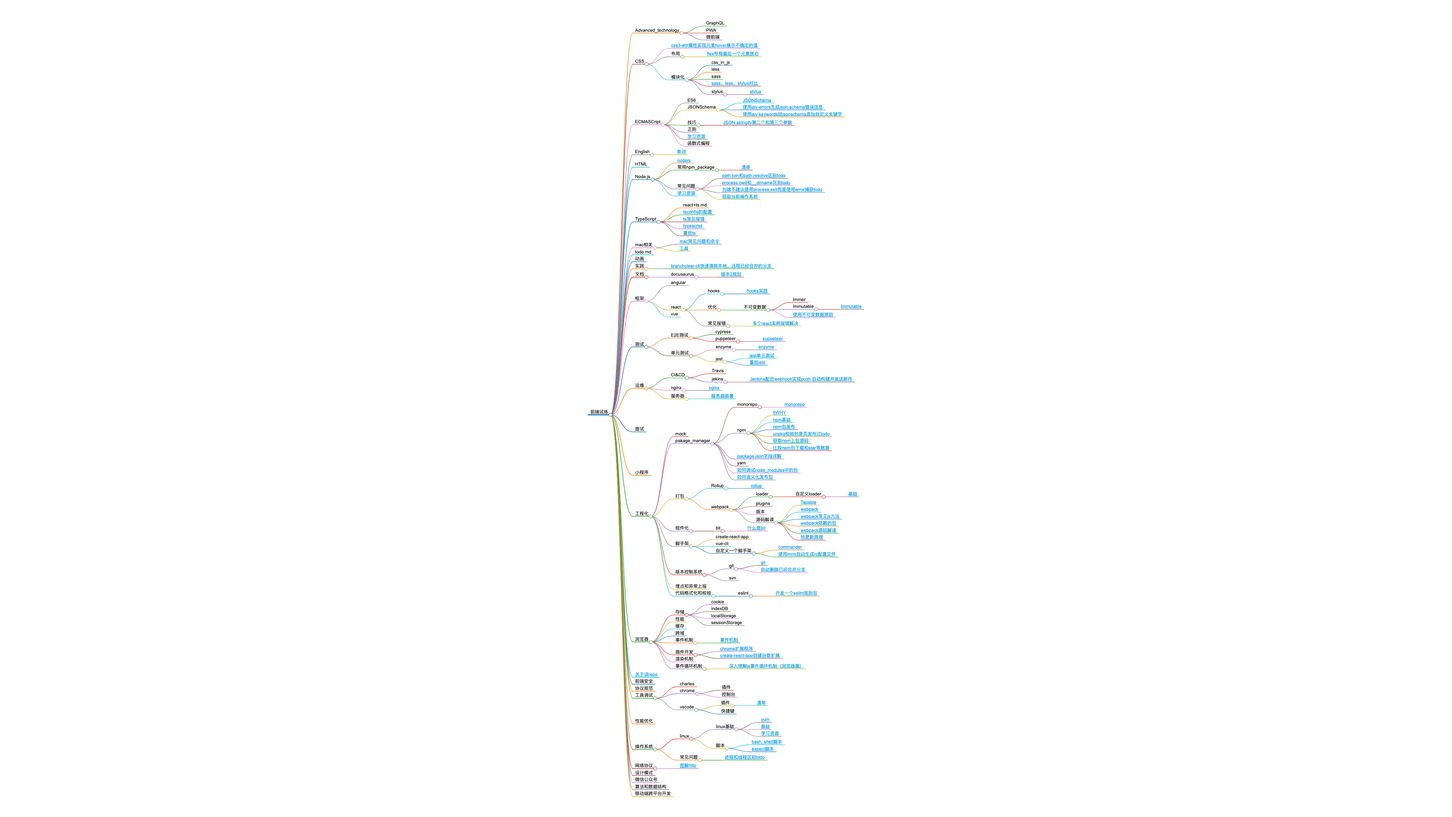
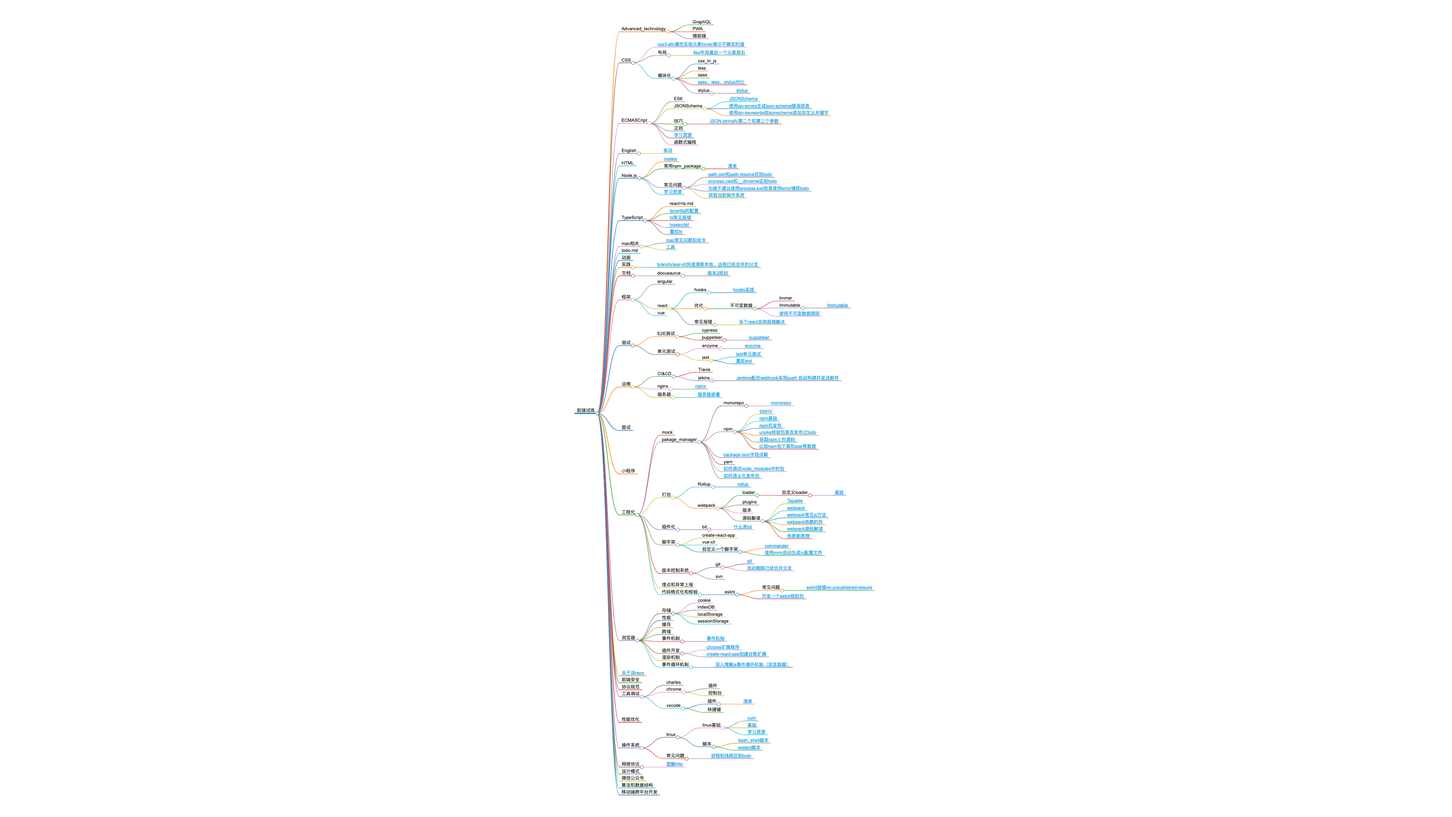
chore: updata思维导图

Changed region(s): [[0.4062, 0.031, 0.5938, 0.9926]]

diff --git a/website/static/xmind.html b/website/static/xmind.html
@@ -28,6 +28,6 @@
         (init ? init(loadPlugins, items, opts) : Promise.resolve()).then(() => {
           window.mm = Markmap.create('svg#mindmap', null, data);
         });
-      })({"t":"heading","d":1,"v":"前端试炼","c":[{"t":"list_item","d":2,"v":"Advanced_technology","c":[{"t":"list_item","d":3,"v":"GraphQL"},{"t":"list_item","d":3,"v":"PWA"},{"t":"list_item","d":3,"v":"微前端"}]},{"t":"list_item","d":2,"v":"CSS","c":[{"t":"list_item","d":3,"v":"<a href=\"docs/CSS/0729c4e1a19b9e3b6904b91e63cbd435\" title=\"\" target=\"_blank\" rel=\"noopener noreferrer\">css3-attr属性实现元素hover展示不确定的值</a>"},{"t":"list_item","d":3,"v":"布局","c":[{"t":"list_item","d":4,"v":"<a href=\"docs/CSS/布局/d894294d8c56ce41da5469f6ed173daf\" title=\"\" target=\"_blank\" rel=\"noopener noreferrer\">flex布局最后一个元素居右</a>"}]},{"t":"list_item","d":3,"v":"模块化","c":[{"t":"list_item","d":4,"v":"css_in_js"},{"t":"list_item","d":4,"v":"less"},{"t":"list_item","d":4,"v":"sass"},{"t":"list_item","d":4,"v":"<a href=\"docs/CSS/模块化/98c70242585e1c8ac87207d342ab81e0\" title=\"\" target=\"_blank\" rel=\"noopener noreferrer\">sass、less、stylus对比</a>"},{"t":"list_item","d":4,"v":"stylus","c":[{"t":"list_item","d":5,"v":"<a href=\"docs/CSS/模块化/stylus/1de4cb8a5702a6a347c89999bfa433d2\" title=\"\" target=\"_blank\" rel=\"noopener noreferrer\">stylus</a>"}]}]}]},{"t":"list_item","d":2,"v":"ECMASCript","c":[{"t":"list_item","d":3,"v":"ES6"},{"t":"list_item","d":3,"v":"JSONSchema","c":[{"t":"list_item","d":4,"v":"<a href=\"docs/ECMASCript/JSONSchema/718deb34c13a2d51e3c2ba69f472fce9\" title=\"\" target=\"_blank\" rel=\"noopener noreferrer\">JSONSchema</a>"},{"t":"list_item","d":4,"v":"<a href=\"docs/ECMASCript/JSONSchema/f7964c8f9054ea24043d6089ad339147\" title=\"\" target=\"_blank\" rel=\"noopener noreferrer\">使用ajv-errors生成json-schema错误信息</a>"},{"t":"list_item","d":4,"v":"<a href=\"docs/ECMASCript/JSONSchema/5237e232cb7cb852580db82169fdcaeb\" title=\"\" target=\"_blank\" rel=\"noopener noreferrer\">使用ajv-keywords给jsonschema添加自定义关键字</a>"}]},{"t":"list_item","d":3,"v":"技巧","c":[{"t":"list_item","d":4,"v":"<a href=\"docs/ECMASCript/技巧/5ba5a0a4b23bea437b86bee22027111d\" title=\"\" target=\"_blank\" rel=\"noopener noreferrer\">JSON.stringify第二个和第三个参数</a>"}]},{"t":"list_item","d":3,"v":"正则"},{"t":"list_item","d":3,"v":"<a href=\"docs/ECMASCript/b53484b1bcbe1911e09c68d510ac7d64\" title=\"\" target=\"_blank\" rel=\"noopener noreferrer\">学习资源</a>"},{"t":"list_item","d":3,"v":"函数式编程"}]},{"t":"list_item","d":2,"v":"English","c":[{"t":"list_item","d":3,"v":"<a href=\"docs/English/72a91cf59167d6c497b1e3057447af5a\" title=\"\" target=\"_blank\" rel=\"noopener noreferrer\">单词</a>"}]},{"t":"list_item","d":2,"v":"HTML"},{"t":"list_item","d":2,"v":"Node.js","c":[{"t":"list_item","d":3,"v":"<a href=\"docs/Node.js/2e274f275e0613b306c487b358d94ab7\" title=\"\" target=\"_blank\" rel=\"noopener noreferrer\">nodejs</a>"},{"t":"list_item","d":3,"v":"常用npm_package","c":[{"t":"list_item","d":4,"v":"<a href=\"docs/Node.js/常用npm_package/9688efbb3877b7be40b25452ccaef48f\" title=\"\" target=\"_blank\" rel=\"noopener noreferrer\">清单</a>"}]},{"t":"list_item","d":3,"v":"常见问题","c":[{"t":"list_item","d":4,"v":"<a href=\"docs/Node.js/常见问题/f3a88e293ba7550437f98043f9c3f757\" title=\"\" target=\"_blank\" rel=\"noopener noreferrer\">path.join和path.resolve区别todo</a>"},{"t":"list_item","d":4,"v":"<a href=\"docs/Node.js/常见问题/35e3cab374fc073c688aa0cf2cc1e83e\" title=\"\" target=\"_blank\" rel=\"noopener noreferrer\">process.cwd和__dirname区别todo</a>"},{"t":"list_item","d":4,"v":"<a href=\"docs/Node.js/常见问题/181a14245a9ee55171de2d116970a240\" title=\"\" target=\"_blank\" rel=\"noopener noreferrer\">为啥不建议使用process.exit而是使用error捕获todo</a>"},{"t":"list_item","d":4,"v":"<a href=\"docs/Node.js/常见问题/34f53dc634b7e09e8d32279fb508f4c5\" title=\"\" target=\"_blank\" rel=\"noopener noreferrer\">获取当前操作系统</a>"}]},{"t":"list_item","d":3,"v":"<a href=\"docs/ECMASCript/b53484b1bcbe1911e09c68d510ac7d64\" title=\"\" target=\"_blank\" rel=\"noopener noreferrer\">学习资源</a>"}]},{"t":"list_item","d":2,"v":"TypeScript","c":[{"t":"list_item","d":3,"v":"react+ts.md"},{"t":"list_item","d":3,"v":"<a href=\"docs/TypeScript/4a8620d3409c9ccc2760c0abdf77eb66\" title=\"\" target=\"_blank\" rel=\"noopener noreferrer\">tsconfig的配置</a>"},{"t":"list_item","d":3,"v":"<a href=\"docs/TypeScript/32bf4b312a9b194926bd9464ec44dbf1\" title=\"\" target=\"_blank\" rel=\"noopener noreferrer\">ts常见报错</a>"},{"t":"list_item","d":3,"v":"<a href=\"docs/TypeScript/808567b84cc51ad515d4820e54f84e31\" title=\"\" target=\"_blank\" rel=\"noopener noreferrer\">typescript</a>"},{"t":"list_item","d":3,"v":"<a href=\"docs/TypeScript/b36f6376acc1abd98aab96ef91491d2b\" title=\"\" target=\"_blank\" rel=\"noopener noreferrer\">重拾ts</a>"}]},{"t":"list_item","d":2,"v":"mac相关","c":[{"t":"list_item","d":3,"v":"<a href=\"docs/mac相关/a44fd8dd59298708f41334a88822b962\" title=\"\" target=\"_blank\" rel=\"noopener noreferrer\">mac常见问题和命令</a>"},{"t":"list_item","d":3,"v":"<a href=\"docs/mac相关/2b9f15fd56b0c6b3cd5a33c28fc68157\" title=\"\" target=\"_blank\" rel=\"noopener noreferrer\">工具</a>"}]},{"t":"list_item","d":2,"v":"todo.md"},{"t":"list_item","d":2,"v":"动画"},{"t":"list_item","d":2,"v":"实践","c":[{"t":"list_item","d":3,"v":"<a href=\"docs/实践/626060a4af5e1540907d7bcd2416544c\" title=\"\" target=\"_blank\" rel=\"noopener noreferrer\">branchclear-cli快速清除本地、远程已经合并的分支</a>"}]},{"t":"list_item","d":2,"v":"文档","c":[{"t":"list_item","d":3,"v":"docusaurus","c":[{"t":"list_item","d":4,"v":"<a href=\"docs/文档/docusaurus/a7934b68b6234157a1af4087537d1e8b\" title=\"\" target=\"_blank\" rel=\"noopener noreferrer\">版本2规划</a>"}]}]},{"t":"list_item","d":2,"v":"框架","c":[{"t":"list_item","d":3,"v":"angular"},{"t":"list_item","d":3,"v":"react","c":[{"t":"list_item","d":4,"v":"hooks","c":[{"t":"list_item","d":5,"v":"<a href=\"docs/框架/react/hooks/cc79a47e7d739125f1566a487e26fb99\" title=\"\" target=\"_blank\" rel=\"noopener noreferrer\">hooks实践</a>"}]},{"t":"list_item","d":4,"v":"优化","c":[{"t":"list_item","d":5,"v":"不可变数据","c":[{"t":"list_item","d":6,"v":"Immer"},{"t":"list_item","d":6,"v":"Immutable","c":[{"t":"list_item","d":7,"v":"<a href=\"docs/框架/react/优化/不可变数据/Immutable/1d3d9edc29eec0f35eaf85c9e8d5b659\" title=\"\" target=\"_blank\" rel=\"noopener noreferrer\">Immutable</a>"}]},{"t":"list_item","d":6,"v":"<a href=\"docs/框架/react/优化/不可变数据/7f536cb00c3fdc6439f768fb47f7a59e\" title=\"\" target=\"_blank\" rel=\"noopener noreferrer\">使用不可变数据原因</a>"}]}]},{"t":"list_item","d":4,"v":"常见报错","c":[{"t":"list_item","d":5,"v":"<a href=\"docs/框架/react/常见报错/7d0e60c89a5f550eadf89f5f22550bcc\" title=\"\" target=\"_blank\" rel=\"noopener noreferrer\">多个react实例报错解决</a>"}]}]},{"t":"list_item","d":3,"v":"vue"}]},{"t":"list_item","d":2,"v":"测试","c":[{"t":"list_item","d":3,"v":"E2E测试","c":[{"t":"list_item","d":4,"v":"cypress"},{"t":"list_item","d":4,"v":"puppeteer","c":[{"t":"list_item","d":5,"v":"<a href=\"docs/测试/E2E测试/puppeteer/179673e977b3c3f9ad055a4b4a1e4eff\" title=\"\" target=\"_blank\" rel=\"noopener noreferrer\">puppeteer</a>"}]}]},{"t":"list_item","d":3,"v":"单元测试","c":[{"t":"list_item","d":4,"v":"enzyme","c":[{"t":"list_item","d":5,"v":"<a href=\"docs/测试/单元测试/enzyme/ff68fd239a281351a53d6e0b62b17fe7\" title=\"\" target=\"_blank\" rel=\"noopener noreferrer\">enzyme</a>"}]},{"t":"list_item","d":4,"v":"jest","c":[{"t":"list_item","d":5,"v":"<a href=\"docs/测试/单元测试/jest/094b039468990ad513f1f8dd484d8dc2\" title=\"\" target=\"_blank\" rel=\"noopener noreferrer\">jest单元测试</a>"},{"t":"list_item","d":5,"v":"<a href=\"docs/测试/单元测试/jest/b1f6cee7ef1784df1f5f69a9c4a785da\" title=\"\" target=\"_blank\" rel=\"noopener noreferrer\">重拾jest</a>"}]}]}]},{"t":"list_item","d":2,"v":"运维","c":[{"t":"list_item","d":3,"v":"CI&amp;CD","c":[{"t":"list_item","d":4,"v":"Travis"},{"t":"list_item","d":4,"v":"jekins","c":[{"t":"list_item","d":5,"v":"<a href=\"docs/运维/CI&amp;CD/jekins/d945d19c0ddc3f3d3fd73e4e1dabfcf1\" title=\"\" target=\"_blank\" rel=\"noopener noreferrer\">Jenkins配合webhook实现push,自动构建并发送邮件</a>"}]}]},{"t":"list_item","d":3,"v":"nginx","c":[{"t":"list_item","d":4,"v":"<a href=\"docs/运维/nginx/df1da39a6e72280164ae3ce63cb1fc4a\" title=\"\" target=\"_blank\" rel=\"noopener noreferrer\">nginx</a>"}]},{"t":"list_item","d":3,"v":"服务器","c":[{"t":"list_item","d":4,"v":"<a href=\"docs/运维/服务器/08c9e14f9b32a6e0c3ce858267d3e639\" title=\"\" target=\"_blank\" rel=\"noopener noreferrer\">服务器部署</a>"}]}]},{"t":"list_item","d":2,"v":"面试"},{"t":"list_item","d":2,"v":"小程序"},{"t":"list_item","d":2,"v":"工程化","c":[{"t":"list_item","d":3,"v":"mock"},{"t":"list_item","d":3,"v":"pakage_manager","c":[{"t":"list_item","d":4,"v":"monorepo","c":[{"t":"list_item","d":5,"v":"<a href=\"docs/工程化/pakage_manager/monorepo/0839e5ac070eca1b53807ffcbfbf5cc6\" title=\"\" target=\"_blank\" rel=\"noopener noreferrer\">monorepo</a>"}]},{"t":"list_item","d":4,"v":"npm","c":[{"t":"list_item","d":5,"v":"<a href=\"docs/工程化/pakage_manager/npm/c7133389f53e8d534c388d5ce8b37459\" title=\"\" target=\"_blank\" rel=\"noopener noreferrer\">5WHY</a>"},{"t":"list_item","d":5,"v":"<a href=\"docs/工程化/pakage_manager/npm/4bc8b6d9c0d959fc89304c7b6ca759d2\" title=\"\" target=\"_blank\" rel=\"noopener noreferrer\">npm基础</a>"},{"t":"list_item","d":5,"v":"<a href=\"docs/工程化/pakage_manager/npm/ba56c3b18aefa148f9439f026ec3f973\" title=\"\" target=\"_blank\" rel=\"noopener noreferrer\">npm包发布</a>"},{"t":"list_item","d":5,"v":"<a href=\"docs/工程化/pakage_manager/npm/d65b7b7b836dd8738e6504b00c5d8ec9\" title=\"\" target=\"_blank\" rel=\"noopener noreferrer\">unpkg校验包是否发布过todo</a>"},{"t":"list_item","d":5,"v":"<a href=\"docs/工程化/pakage_manager/npm/09b0d7c93d19d925aaec8215b046a974\" title=\"\" target=\"_blank\" rel=\"noopener noreferrer\">获取npm上包源码</a>"},{"t":"list_item","d":5,"v":"<a href=\"docs/工程化/pakage_manager/npm/c6ce67aed5b47d0a31123ae15d9e581a\" title=\"\" target=\"_blank\" rel=\"noopener noreferrer\">比较npm包下载和star等数据</a>"}]},{"t":"list_item","d":4,"v":"<a href=\"docs/工程化/pakage_manager/38f14e8081af1e36ddd422fa9b4db94a\" title=\"\" target=\"_blank\" rel=\"noopener noreferrer\">package.json字段详解</a>"},{"t":"list_item","d":4,"v":"yarn"},{"t":"list_item","d":4,"v":"<a href=\"docs/工程化/pakage_manager/e6a07bea153f8b002ef8dc47f8bc1311\" title=\"\" target=\"_blank\" rel=\"noopener noreferrer\">如何调试node_modules中的包</a>"},{"t":"list_item","d":4,"v":"<a href=\"docs/工程化/pakage_manager/ec0f88d99c3ac3c6b5038c575ac4d1ce\" title=\"\" target=\"_blank\" rel=\"noopener noreferrer\">如何语义化发布包</a>"}]},{"t":"list_item","d":3,"v":"打包","c":[{"t":"list_item","d":4,"v":"Rollup","c":[{"t":"list_item","d":5,"v":"<a href=\"docs/工程化/打包/Rollup/4918d3072fb3da6be9ad6cfe54c020f3\" title=\"\" target=\"_blank\" rel=\"noopener noreferrer\">rollup</a>"}]},{"t":"list_item","d":4,"v":"webpack","c":[{"t":"list_item","d":5,"v":"loader","c":[{"t":"list_item","d":6,"v":"自定义loader","c":[{"t":"list_item","d":7,"v":"<a href=\"docs/工程化/打包/webpack/loader/自定义loader/9b68a2b86fd6b41392413eebbe754257\" title=\"\" target=\"_blank\" rel=\"noopener noreferrer\">基础</a>"}]}]},{"t":"list_item","d":5,"v":"plugins"},{"t":"list_item","d":5,"v":"版本"},{"t":"list_item","d":5,"v":"源码解读","c":[{"t":"list_item","d":6,"v":"<a href=\"docs/工程化/打包/webpack/源码解读/3044cf73a36f83e5344247f79ffb719e\" title=\"\" target=\"_blank\" rel=\"noopener noreferrer\">Tapable</a>"},{"t":"list_item","d":6,"v":"<a href=\"docs/工程化/打包/webpack/源码解读/8b9409a6ad189493556150ffca9a2079\" title=\"\" target=\"_blank\" rel=\"noopener noreferrer\">webpack</a>"},{"t":"list_item","d":6,"v":"<a href=\"docs/工程化/打包/webpack/源码解读/7cb10912f28c1696659c6131b517f27c\" title=\"\" target=\"_blank\" rel=\"noopener noreferrer\">webpack常见js方法</a>"},{"t":"list_item","d":6,"v":"<a href=\"docs/工程化/打包/webpack/源码解读/0889ebe5191ee49173a6c02e5d4ccd6f\" title=\"\" target=\"_blank\" rel=\"noopener noreferrer\">webpack依赖的包</a>"},{"t":"list_item","d":6,"v":"<a href=\"docs/工程化/打包/webpack/源码解读/80e8979bbebe30571bf98fea6d3b32d0\" title=\"\" target=\"_blank\" rel=\"noopener noreferrer\">webpack源码解读</a>"},{"t":"list_item","d":6,"v":"<a href=\"docs/工程化/打包/webpack/源码解读/768e191e2dc797ba437ddbf619dcf3b5\" title=\"\" target=\"_blank\" rel=\"noopener noreferrer\">热更新原理</a>"}]}]}]},{"t":"list_item","d":3,"v":"组件化","c":[{"t":"list_item","d":4,"v":"bit","c":[{"t":"list_item","d":5,"v":"<a href=\"docs/工程化/组件化/bit/a0d47b851468953d2c75ec36293fc240\" title=\"\" target=\"_blank\" rel=\"noopener noreferrer\">什么是bit</a>"}]}]},{"t":"list_item","d":3,"v":"脚手架","c":[{"t":"list_item","d":4,"v":"create-react-app"},{"t":"list_item","d":4,"v":"vue-cli"},{"t":"list_item","d":4,"v":"自定义一个脚手架","c":[{"t":"list_item","d":5,"v":"<a href=\"docs/工程化/脚手架/自定义一个脚手架/e1f3c1423014acd77d6282114faf6935\" title=\"\" target=\"_blank\" rel=\"noopener noreferrer\">commander</a>"},{"t":"list_item","d":5,"v":"<a href=\"docs/工程化/脚手架/自定义一个脚手架/08da76489044cd5dfcc111cb0b8b8d58\" title=\"\" target=\"_blank\" rel=\"noopener noreferrer\">使用mrm自动生成rc配置文件</a>"}]}]},{"t":"list_item","d":3,"v":"版本控制系统","c":[{"t":"list_item","d":4,"v":"git","c":[{"t":"list_item","d":5,"v":"<a href=\"docs/工程化/版本控制系统/git/85735fc293ff4dbf3ef3e42201cb061d\" title=\"\" target=\"_blank\" rel=\"noopener noreferrer\">git</a>"},{"t":"list_item","d":5,"v":"<a href=\"docs/工程化/版本控制系统/git/7ee6448a4e193516af12ff819b930f2f\" title=\"\" target=\"_blank\" rel=\"noopener noreferrer\">自动删除已经合并分支</a>"}]},{"t":"list_item","d":4,"v":"svn"}]},{"t":"list_item","d":3,"v":"埋点和异常上报"},{"t":"list_item","d":3,"v":"代码格式化和校验","c":[{"t":"list_item","d":4,"v":"eslint","c":[{"t":"list_item","d":5,"v":"<a href=\"docs/工程化/代码格式化和校验/eslint/d8f7b00347a3af68dcfcf44d01eaecad\" title=\"\" target=\"_blank\" rel=\"noopener noreferrer\">开发一个eslint规则包</a>"}]}]}]},{"t":"list_item","d":2,"v":"浏览器","c":[{"t":"list_item","d":3,"v":"存储","c":[{"t":"list_item","d":4,"v":"cookie"},{"t":"list_item","d":4,"v":"indexDB"},{"t":"list_item","d":4,"v":"localStorage"},{"t":"list_item","d":4,"v":"sessionStorage"}]},{"t":"list_item","d":3,"v":"性能"},{"t":"list_item","d":3,"v":"缓存"},{"t":"list_item","d":3,"v":"跨域"},{"t":"list_item","d":3,"v":"事件机制","c":[{"t":"list_item","d":4,"v":"<a href=\"docs/浏览器/事件机制/7af5dc889f753bd70e5f7ef171c7060f\" title=\"\" target=\"_blank\" rel=\"noopener noreferrer\">事件机制</a>"}]},{"t":"list_item","d":3,"v":"插件开发","c":[{"t":"list_item","d":4,"v":"<a href=\"docs/浏览器/插件开发/2c4c0445df023db773d193c34210f844\" title=\"\" target=\"_blank\" rel=\"noopener noreferrer\">chrome扩展程序</a>"},{"t":"list_item","d":4,"v":"<a href=\"docs/浏览器/插件开发/bfe71b448da24918198c18263f04233a\" title=\"\" target=\"_blank\" rel=\"noopener noreferrer\">create-react-app创建谷歌扩展</a>"}]},{"t":"list_item","d":3,"v":"渲染机制"},{"t":"list_item","d":3,"v":"事件循环机制","c":[{"t":"list_item","d":4,"v":"<a href=\"docs/浏览器/事件循环机制/dc678db259507b0c4aeb94631e2dc8a7\" title=\"\" target=\"_blank\" rel=\"noopener noreferrer\">深入理解js事件循环机制（浏览器篇）</a>"}]}]},{"t":"list_item","d":2,"v":"<a href=\"docs/95a148348b289ba387509c05eb1c6af2\" title=\"\" target=\"_blank\" rel=\"noopener noreferrer\">关于该repo</a>"},{"t":"list_item","d":2,"v":"前端安全"},{"t":"list_item","d":2,"v":"协议规范"},{"t":"list_item","d":2,"v":"工具调试","c":[{"t":"list_item","d":3,"v":"charles"},{"t":"list_item","d":3,"v":"chrome","c":[{"t":"list_item","d":4,"v":"插件"},{"t":"list_item","d":4,"v":"控制台"}]},{"t":"list_item","d":3,"v":"vscode","c":[{"t":"list_item","d":4,"v":"插件","c":[{"t":"list_item","d":5,"v":"<a href=\"docs/Node.js/常用npm_package/9688efbb3877b7be40b25452ccaef48f\" title=\"\" target=\"_blank\" rel=\"noopener noreferrer\">清单</a>"}]},{"t":"list_item","d":4,"v":"快捷键"}]}]},{"t":"list_item","d":2,"v":"性能优化"},{"t":"list_item","d":2,"v":"操作系统","c":[{"t":"list_item","d":3,"v":"linux","c":[{"t":"list_item","d":4,"v":"linux基础","c":[{"t":"list_item","d":5,"v":"<a href=\"docs/操作系统/linux/linux基础/760bccd78d82b9e52641e9273b7baad5\" title=\"\" target=\"_blank\" rel=\"noopener noreferrer\">yum</a>"},{"t":"list_item","d":5,"v":"<a href=\"docs/工程化/打包/webpack/loader/自定义loader/9b68a2b86fd6b41392413eebbe754257\" title=\"\" target=\"_blank\" rel=\"noopener noreferrer\">基础</a>"},{"t":"list_item","d":5,"v":"<a href=\"docs/ECMASCript/b53484b1bcbe1911e09c68d510ac7d64\" title=\"\" target=\"_blank\" rel=\"noopener noreferrer\">学习资源</a>"}]},{"t":"list_item","d":4,"v":"脚本","c":[{"t":"list_item","d":5,"v":"<a href=\"docs/操作系统/linux/脚本/5d8743a01675138db72310478b6c7f30\" title=\"\" target=\"_blank\" rel=\"noopener noreferrer\">bash_shell脚本</a>"},{"t":"list_item","d":5,"v":"<a href=\"docs/操作系统/linux/脚本/c89e3ed149c086944696ba0fe3a5ffde\" title=\"\" target=\"_blank\" rel=\"noopener noreferrer\">expect脚本</a>"}]}]},{"t":"list_item","d":3,"v":"常见问题","c":[{"t":"list_item","d":4,"v":"<a href=\"docs/操作系统/常见问题/5d2f732d1880309d622ee322b766ddcb\" title=\"\" target=\"_blank\" rel=\"noopener noreferrer\">进程和线程区别todo</a>"}]}]},{"t":"list_item","d":2,"v":"网络协议","c":[{"t":"list_item","d":3,"v":"<a href=\"docs/网络协议/a7785cd0374e6044ab0a1c64fbbc81fa\" title=\"\" target=\"_blank\" rel=\"noopener noreferrer\">图解http</a>"}]},{"t":"list_item","d":2,"v":"设计模式"},{"t":"list_item","d":2,"v":"微信公众号"},{"t":"list_item","d":2,"v":"算法和数据结构"},{"t":"list_item","d":2,"v":"移动端跨平台开发"}]},(loadPlugins, items, opts) => loadPlugins(items, opts),["prism"],{"prism":true})</script>
+      })({"t":"heading","d":1,"v":"前端试炼","c":[{"t":"list_item","d":2,"v":"Advanced_technology","c":[{"t":"list_item","d":3,"v":"GraphQL"},{"t":"list_item","d":3,"v":"PWA"},{"t":"list_item","d":3,"v":"微前端"}]},{"t":"list_item","d":2,"v":"CSS","c":[{"t":"list_item","d":3,"v":"<a href=\"docs/CSS/0729c4e1a19b9e3b6904b91e63cbd435\" title=\"\" target=\"_blank\" rel=\"noopener noreferrer\">css3-attr属性实现元素hover展示不确定的值</a>"},{"t":"list_item","d":3,"v":"布局","c":[{"t":"list_item","d":4,"v":"<a href=\"docs/CSS/布局/d894294d8c56ce41da5469f6ed173daf\" title=\"\" target=\"_blank\" rel=\"noopener noreferrer\">flex布局最后一个元素居右</a>"}]},{"t":"list_item","d":3,"v":"模块化","c":[{"t":"list_item","d":4,"v":"css_in_js"},{"t":"list_item","d":4,"v":"less"},{"t":"list_item","d":4,"v":"sass"},{"t":"list_item","d":4,"v":"<a href=\"docs/CSS/模块化/98c70242585e1c8ac87207d342ab81e0\" title=\"\" target=\"_blank\" rel=\"noopener noreferrer\">sass、less、stylus对比</a>"},{"t":"list_item","d":4,"v":"stylus","c":[{"t":"list_item","d":5,"v":"<a href=\"docs/CSS/模块化/stylus/1de4cb8a5702a6a347c89999bfa433d2\" title=\"\" target=\"_blank\" rel=\"noopener noreferrer\">stylus</a>"}]}]}]},{"t":"list_item","d":2,"v":"ECMASCript","c":[{"t":"list_item","d":3,"v":"ES6"},{"t":"list_item","d":3,"v":"JSONSchema","c":[{"t":"list_item","d":4,"v":"<a href=\"docs/ECMASCript/JSONSchema/718deb34c13a2d51e3c2ba69f472fce9\" title=\"\" target=\"_blank\" rel=\"noopener noreferrer\">JSONSchema</a>"},{"t":"list_item","d":4,"v":"<a href=\"docs/ECMASCript/JSONSchema/f7964c8f9054ea24043d6089ad339147\" title=\"\" target=\"_blank\" rel=\"noopener noreferrer\">使用ajv-errors生成json-schema错误信息</a>"},{"t":"list_item","d":4,"v":"<a href=\"docs/ECMASCript/JSONSchema/5237e232cb7cb852580db82169fdcaeb\" title=\"\" target=\"_blank\" rel=\"noopener noreferrer\">使用ajv-keywords给jsonschema添加自定义关键字</a>"}]},{"t":"list_item","d":3,"v":"技巧","c":[{"t":"list_item","d":4,"v":"<a href=\"docs/ECMASCript/技巧/5ba5a0a4b23bea437b86bee22027111d\" title=\"\" target=\"_blank\" rel=\"noopener noreferrer\">JSON.stringify第二个和第三个参数</a>"}]},{"t":"list_item","d":3,"v":"正则"},{"t":"list_item","d":3,"v":"<a href=\"docs/ECMASCript/b53484b1bcbe1911e09c68d510ac7d64\" title=\"\" target=\"_blank\" rel=\"noopener noreferrer\">学习资源</a>"},{"t":"list_item","d":3,"v":"函数式编程"}]},{"t":"list_item","d":2,"v":"English","c":[{"t":"list_item","d":3,"v":"<a href=\"docs/English/72a91cf59167d6c497b1e3057447af5a\" title=\"\" target=\"_blank\" rel=\"noopener noreferrer\">单词</a>"}]},{"t":"list_item","d":2,"v":"HTML"},{"t":"list_item","d":2,"v":"Node.js","c":[{"t":"list_item","d":3,"v":"<a href=\"docs/Node.js/2e274f275e0613b306c487b358d94ab7\" title=\"\" target=\"_blank\" rel=\"noopener noreferrer\">nodejs</a>"},{"t":"list_item","d":3,"v":"常用npm_package","c":[{"t":"list_item","d":4,"v":"<a href=\"docs/Node.js/常用npm_package/9688efbb3877b7be40b25452ccaef48f\" title=\"\" target=\"_blank\" rel=\"noopener noreferrer\">清单</a>"}]},{"t":"list_item","d":3,"v":"常见问题","c":[{"t":"list_item","d":4,"v":"<a href=\"docs/Node.js/常见问题/f3a88e293ba7550437f98043f9c3f757\" title=\"\" target=\"_blank\" rel=\"noopener noreferrer\">path.join和path.resolve区别todo</a>"},{"t":"list_item","d":4,"v":"<a href=\"docs/Node.js/常见问题/35e3cab374fc073c688aa0cf2cc1e83e\" title=\"\" target=\"_blank\" rel=\"noopener noreferrer\">process.cwd和__dirname区别todo</a>"},{"t":"list_item","d":4,"v":"<a href=\"docs/Node.js/常见问题/181a14245a9ee55171de2d116970a240\" title=\"\" target=\"_blank\" rel=\"noopener noreferrer\">为啥不建议使用process.exit而是使用error捕获todo</a>"},{"t":"list_item","d":4,"v":"<a href=\"docs/Node.js/常见问题/34f53dc634b7e09e8d32279fb508f4c5\" title=\"\" target=\"_blank\" rel=\"noopener noreferrer\">获取当前操作系统</a>"}]},{"t":"list_item","d":3,"v":"<a href=\"docs/ECMASCript/b53484b1bcbe1911e09c68d510ac7d64\" title=\"\" target=\"_blank\" rel=\"noopener noreferrer\">学习资源</a>"}]},{"t":"list_item","d":2,"v":"TypeScript","c":[{"t":"list_item","d":3,"v":"react+ts.md"},{"t":"list_item","d":3,"v":"<a href=\"docs/TypeScript/4a8620d3409c9ccc2760c0abdf77eb66\" title=\"\" target=\"_blank\" rel=\"noopener noreferrer\">tsconfig的配置</a>"},{"t":"list_item","d":3,"v":"<a href=\"docs/TypeScript/32bf4b312a9b194926bd9464ec44dbf1\" title=\"\" target=\"_blank\" rel=\"noopener noreferrer\">ts常见报错</a>"},{"t":"list_item","d":3,"v":"<a href=\"docs/TypeScript/808567b84cc51ad515d4820e54f84e31\" title=\"\" target=\"_blank\" rel=\"noopener noreferrer\">typescript</a>"},{"t":"list_item","d":3,"v":"<a href=\"docs/TypeScript/b36f6376acc1abd98aab96ef91491d2b\" title=\"\" target=\"_blank\" rel=\"noopener noreferrer\">重拾ts</a>"}]},{"t":"list_item","d":2,"v":"mac相关","c":[{"t":"list_item","d":3,"v":"<a href=\"docs/mac相关/a44fd8dd59298708f41334a88822b962\" title=\"\" target=\"_blank\" rel=\"noopener noreferrer\">mac常见问题和命令</a>"},{"t":"list_item","d":3,"v":"<a href=\"docs/mac相关/2b9f15fd56b0c6b3cd5a33c28fc68157\" title=\"\" target=\"_blank\" rel=\"noopener noreferrer\">工具</a>"}]},{"t":"list_item","d":2,"v":"todo.md"},{"t":"list_item","d":2,"v":"动画"},{"t":"list_item","d":2,"v":"实践","c":[{"t":"list_item","d":3,"v":"<a href=\"docs/实践/626060a4af5e1540907d7bcd2416544c\" title=\"\" target=\"_blank\" rel=\"noopener noreferrer\">branchclear-cli快速清除本地、远程已经合并的分支</a>"}]},{"t":"list_item","d":2,"v":"文档","c":[{"t":"list_item","d":3,"v":"docusaurus","c":[{"t":"list_item","d":4,"v":"<a href=\"docs/文档/docusaurus/a7934b68b6234157a1af4087537d1e8b\" title=\"\" target=\"_blank\" rel=\"noopener noreferrer\">版本2规划</a>"}]}]},{"t":"list_item","d":2,"v":"框架","c":[{"t":"list_item","d":3,"v":"angular"},{"t":"list_item","d":3,"v":"react","c":[{"t":"list_item","d":4,"v":"hooks","c":[{"t":"list_item","d":5,"v":"<a href=\"docs/框架/react/hooks/cc79a47e7d739125f1566a487e26fb99\" title=\"\" target=\"_blank\" rel=\"noopener noreferrer\">hooks实践</a>"}]},{"t":"list_item","d":4,"v":"优化","c":[{"t":"list_item","d":5,"v":"不可变数据","c":[{"t":"list_item","d":6,"v":"Immer"},{"t":"list_item","d":6,"v":"Immutable","c":[{"t":"list_item","d":7,"v":"<a href=\"docs/框架/react/优化/不可变数据/Immutable/1d3d9edc29eec0f35eaf85c9e8d5b659\" title=\"\" target=\"_blank\" rel=\"noopener noreferrer\">Immutable</a>"}]},{"t":"list_item","d":6,"v":"<a href=\"docs/框架/react/优化/不可变数据/7f536cb00c3fdc6439f768fb47f7a59e\" title=\"\" target=\"_blank\" rel=\"noopener noreferrer\">使用不可变数据原因</a>"}]}]},{"t":"list_item","d":4,"v":"常见报错","c":[{"t":"list_item","d":5,"v":"<a href=\"docs/框架/react/常见报错/7d0e60c89a5f550eadf89f5f22550bcc\" title=\"\" target=\"_blank\" rel=\"noopener noreferrer\">多个react实例报错解决</a>"}]}]},{"t":"list_item","d":3,"v":"vue"}]},{"t":"list_item","d":2,"v":"测试","c":[{"t":"list_item","d":3,"v":"E2E测试","c":[{"t":"list_item","d":4,"v":"cypress"},{"t":"list_item","d":4,"v":"puppeteer","c":[{"t":"list_item","d":5,"v":"<a href=\"docs/测试/E2E测试/puppeteer/179673e977b3c3f9ad055a4b4a1e4eff\" title=\"\" target=\"_blank\" rel=\"noopener noreferrer\">puppeteer</a>"}]}]},{"t":"list_item","d":3,"v":"单元测试","c":[{"t":"list_item","d":4,"v":"enzyme","c":[{"t":"list_item","d":5,"v":"<a href=\"docs/测试/单元测试/enzyme/ff68fd239a281351a53d6e0b62b17fe7\" title=\"\" target=\"_blank\" rel=\"noopener noreferrer\">enzyme</a>"}]},{"t":"list_item","d":4,"v":"jest","c":[{"t":"list_item","d":5,"v":"<a href=\"docs/测试/单元测试/jest/094b039468990ad513f1f8dd484d8dc2\" title=\"\" target=\"_blank\" rel=\"noopener noreferrer\">jest单元测试</a>"},{"t":"list_item","d":5,"v":"<a href=\"docs/测试/单元测试/jest/b1f6cee7ef1784df1f5f69a9c4a785da\" title=\"\" target=\"_blank\" rel=\"noopener noreferrer\">重拾jest</a>"}]}]}]},{"t":"list_item","d":2,"v":"运维","c":[{"t":"list_item","d":3,"v":"CI&amp;CD","c":[{"t":"list_item","d":4,"v":"Travis"},{"t":"list_item","d":4,"v":"jekins","c":[{"t":"list_item","d":5,"v":"<a href=\"docs/运维/CI&amp;CD/jekins/d945d19c0ddc3f3d3fd73e4e1dabfcf1\" title=\"\" target=\"_blank\" rel=\"noopener noreferrer\">Jenkins配合webhook实现push,自动构建并发送邮件</a>"}]}]},{"t":"list_item","d":3,"v":"nginx","c":[{"t":"list_item","d":4,"v":"<a href=\"docs/运维/nginx/df1da39a6e72280164ae3ce63cb1fc4a\" title=\"\" target=\"_blank\" rel=\"noopener noreferrer\">nginx</a>"}]},{"t":"list_item","d":3,"v":"服务器","c":[{"t":"list_item","d":4,"v":"<a href=\"docs/运维/服务器/08c9e14f9b32a6e0c3ce858267d3e639\" title=\"\" target=\"_blank\" rel=\"noopener noreferrer\">服务器部署</a>"}]}]},{"t":"list_item","d":2,"v":"面试"},{"t":"list_item","d":2,"v":"小程序"},{"t":"list_item","d":2,"v":"工程化","c":[{"t":"list_item","d":3,"v":"mock"},{"t":"list_item","d":3,"v":"pakage_manager","c":[{"t":"list_item","d":4,"v":"monorepo","c":[{"t":"list_item","d":5,"v":"<a href=\"docs/工程化/pakage_manager/monorepo/0839e5ac070eca1b53807ffcbfbf5cc6\" title=\"\" target=\"_blank\" rel=\"noopener noreferrer\">monorepo</a>"}]},{"t":"list_item","d":4,"v":"npm","c":[{"t":"list_item","d":5,"v":"<a href=\"docs/工程化/pakage_manager/npm/c7133389f53e8d534c388d5ce8b37459\" title=\"\" target=\"_blank\" rel=\"noopener noreferrer\">5WHY</a>"},{"t":"list_item","d":5,"v":"<a href=\"docs/工程化/pakage_manager/npm/4bc8b6d9c0d959fc89304c7b6ca759d2\" title=\"\" target=\"_blank\" rel=\"noopener noreferrer\">npm基础</a>"},{"t":"list_item","d":5,"v":"<a href=\"docs/工程化/pakage_manager/npm/ba56c3b18aefa148f9439f026ec3f973\" title=\"\" target=\"_blank\" rel=\"noopener noreferrer\">npm包发布</a>"},{"t":"list_item","d":5,"v":"<a href=\"docs/工程化/pakage_manager/npm/d65b7b7b836dd8738e6504b00c5d8ec9\" title=\"\" target=\"_blank\" rel=\"noopener noreferrer\">unpkg校验包是否发布过todo</a>"},{"t":"list_item","d":5,"v":"<a href=\"docs/工程化/pakage_manager/npm/09b0d7c93d19d925aaec8215b046a974\" title=\"\" target=\"_blank\" rel=\"noopener noreferrer\">获取npm上包源码</a>"},{"t":"list_item","d":5,"v":"<a href=\"docs/工程化/pakage_manager/npm/c6ce67aed5b47d0a31123ae15d9e581a\" title=\"\" target=\"_blank\" rel=\"noopener noreferrer\">比较npm包下载和star等数据</a>"}]},{"t":"list_item","d":4,"v":"<a href=\"docs/工程化/pakage_manager/38f14e8081af1e36ddd422fa9b4db94a\" title=\"\" target=\"_blank\" rel=\"noopener noreferrer\">package.json字段详解</a>"},{"t":"list_item","d":4,"v":"yarn"},{"t":"list_item","d":4,"v":"<a href=\"docs/工程化/pakage_manager/e6a07bea153f8b002ef8dc47f8bc1311\" title=\"\" target=\"_blank\" rel=\"noopener noreferrer\">如何调试node_modules中的包</a>"},{"t":"list_item","d":4,"v":"<a href=\"docs/工程化/pakage_manager/ec0f88d99c3ac3c6b5038c575ac4d1ce\" title=\"\" target=\"_blank\" rel=\"noopener noreferrer\">如何语义化发布包</a>"}]},{"t":"list_item","d":3,"v":"打包","c":[{"t":"list_item","d":4,"v":"Rollup","c":[{"t":"list_item","d":5,"v":"<a href=\"docs/工程化/打包/Rollup/4918d3072fb3da6be9ad6cfe54c020f3\" title=\"\" target=\"_blank\" rel=\"noopener noreferrer\">rollup</a>"}]},{"t":"list_item","d":4,"v":"webpack","c":[{"t":"list_item","d":5,"v":"loader","c":[{"t":"list_item","d":6,"v":"自定义loader","c":[{"t":"list_item","d":7,"v":"<a href=\"docs/工程化/打包/webpack/loader/自定义loader/9b68a2b86fd6b41392413eebbe754257\" title=\"\" target=\"_blank\" rel=\"noopener noreferrer\">基础</a>"}]}]},{"t":"list_item","d":5,"v":"plugins"},{"t":"list_item","d":5,"v":"版本"},{"t":"list_item","d":5,"v":"源码解读","c":[{"t":"list_item","d":6,"v":"<a href=\"docs/工程化/打包/webpack/源码解读/3044cf73a36f83e5344247f79ffb719e\" title=\"\" target=\"_blank\" rel=\"noopener noreferrer\">Tapable</a>"},{"t":"list_item","d":6,"v":"<a href=\"docs/工程化/打包/webpack/源码解读/8b9409a6ad189493556150ffca9a2079\" title=\"\" target=\"_blank\" rel=\"noopener noreferrer\">webpack</a>"},{"t":"list_item","d":6,"v":"<a href=\"docs/工程化/打包/webpack/源码解读/7cb10912f28c1696659c6131b517f27c\" title=\"\" target=\"_blank\" rel=\"noopener noreferrer\">webpack常见js方法</a>"},{"t":"list_item","d":6,"v":"<a href=\"docs/工程化/打包/webpack/源码解读/0889ebe5191ee49173a6c02e5d4ccd6f\" title=\"\" target=\"_blank\" rel=\"noopener noreferrer\">webpack依赖的包</a>"},{"t":"list_item","d":6,"v":"<a href=\"docs/工程化/打包/webpack/源码解读/80e8979bbebe30571bf98fea6d3b32d0\" title=\"\" target=\"_blank\" rel=\"noopener noreferrer\">webpack源码解读</a>"},{"t":"list_item","d":6,"v":"<a href=\"docs/工程化/打包/webpack/源码解读/768e191e2dc797ba437ddbf619dcf3b5\" title=\"\" target=\"_blank\" rel=\"noopener noreferrer\">热更新原理</a>"}]}]}]},{"t":"list_item","d":3,"v":"组件化","c":[{"t":"list_item","d":4,"v":"bit","c":[{"t":"list_item","d":5,"v":"<a href=\"docs/工程化/组件化/bit/a0d47b851468953d2c75ec36293fc240\" title=\"\" target=\"_blank\" rel=\"noopener noreferrer\">什么是bit</a>"}]}]},{"t":"list_item","d":3,"v":"脚手架","c":[{"t":"list_item","d":4,"v":"create-react-app"},{"t":"list_item","d":4,"v":"vue-cli"},{"t":"list_item","d":4,"v":"自定义一个脚手架","c":[{"t":"list_item","d":5,"v":"<a href=\"docs/工程化/脚手架/自定义一个脚手架/e1f3c1423014acd77d6282114faf6935\" title=\"\" target=\"_blank\" rel=\"noopener noreferrer\">commander</a>"},{"t":"list_item","d":5,"v":"<a href=\"docs/工程化/脚手架/自定义一个脚手架/08da76489044cd5dfcc111cb0b8b8d58\" title=\"\" target=\"_blank\" rel=\"noopener noreferrer\">使用mrm自动生成rc配置文件</a>"}]}]},{"t":"list_item","d":3,"v":"版本控制系统","c":[{"t":"list_item","d":4,"v":"git","c":[{"t":"list_item","d":5,"v":"<a href=\"docs/工程化/版本控制系统/git/85735fc293ff4dbf3ef3e42201cb061d\" title=\"\" target=\"_blank\" rel=\"noopener noreferrer\">git</a>"},{"t":"list_item","d":5,"v":"<a href=\"docs/工程化/版本控制系统/git/7ee6448a4e193516af12ff819b930f2f\" title=\"\" target=\"_blank\" rel=\"noopener noreferrer\">自动删除已经合并分支</a>"}]},{"t":"list_item","d":4,"v":"svn"}]},{"t":"list_item","d":3,"v":"埋点和异常上报"},{"t":"list_item","d":3,"v":"代码格式化和校验","c":[{"t":"list_item","d":4,"v":"eslint","c":[{"t":"list_item","d":5,"v":"常见问题","c":[{"t":"list_item","d":6,"v":"<a href=\"docs/工程化/代码格式化和校验/eslint/常见问题/30a69d78ea80299566efb6a61e348ec8\" title=\"\" target=\"_blank\" rel=\"noopener noreferrer\">eslint报错no-unpublished-require</a>"}]},{"t":"list_item","d":5,"v":"<a href=\"docs/工程化/代码格式化和校验/eslint/d8f7b00347a3af68dcfcf44d01eaecad\" title=\"\" target=\"_blank\" rel=\"noopener noreferrer\">开发一个eslint规则包</a>"}]}]}]},{"t":"list_item","d":2,"v":"浏览器","c":[{"t":"list_item","d":3,"v":"存储","c":[{"t":"list_item","d":4,"v":"cookie"},{"t":"list_item","d":4,"v":"indexDB"},{"t":"list_item","d":4,"v":"localStorage"},{"t":"list_item","d":4,"v":"sessionStorage"}]},{"t":"list_item","d":3,"v":"性能"},{"t":"list_item","d":3,"v":"缓存"},{"t":"list_item","d":3,"v":"跨域"},{"t":"list_item","d":3,"v":"事件机制","c":[{"t":"list_item","d":4,"v":"<a href=\"docs/浏览器/事件机制/7af5dc889f753bd70e5f7ef171c7060f\" title=\"\" target=\"_blank\" rel=\"noopener noreferrer\">事件机制</a>"}]},{"t":"list_item","d":3,"v":"插件开发","c":[{"t":"list_item","d":4,"v":"<a href=\"docs/浏览器/插件开发/2c4c0445df023db773d193c34210f844\" title=\"\" target=\"_blank\" rel=\"noopener noreferrer\">chrome扩展程序</a>"},{"t":"list_item","d":4,"v":"<a href=\"docs/浏览器/插件开发/bfe71b448da24918198c18263f04233a\" title=\"\" target=\"_blank\" rel=\"noopener noreferrer\">create-react-app创建谷歌扩展</a>"}]},{"t":"list_item","d":3,"v":"渲染机制"},{"t":"list_item","d":3,"v":"事件循环机制","c":[{"t":"list_item","d":4,"v":"<a href=\"docs/浏览器/事件循环机制/dc678db259507b0c4aeb94631e2dc8a7\" title=\"\" target=\"_blank\" rel=\"noopener noreferrer\">深入理解js事件循环机制（浏览器篇）</a>"}]}]},{"t":"list_item","d":2,"v":"<a href=\"docs/95a148348b289ba387509c05eb1c6af2\" title=\"\" target=\"_blank\" rel=\"noopener noreferrer\">关于该repo</a>"},{"t":"list_item","d":2,"v":"前端安全"},{"t":"list_item","d":2,"v":"协议规范"},{"t":"list_item","d":2,"v":"工具调试","c":[{"t":"list_item","d":3,"v":"charles"},{"t":"list_item","d":3,"v":"chrome","c":[{"t":"list_item","d":4,"v":"插件"},{"t":"list_item","d":4,"v":"控制台"}]},{"t":"list_item","d":3,"v":"vscode","c":[{"t":"list_item","d":4,"v":"插件","c":[{"t":"list_item","d":5,"v":"<a href=\"docs/Node.js/常用npm_package/9688efbb3877b7be40b25452ccaef48f\" title=\"\" target=\"_blank\" rel=\"noopener noreferrer\">清单</a>"}]},{"t":"list_item","d":4,"v":"快捷键"}]}]},{"t":"list_item","d":2,"v":"性能优化"},{"t":"list_item","d":2,"v":"操作系统","c":[{"t":"list_item","d":3,"v":"linux","c":[{"t":"list_item","d":4,"v":"linux基础","c":[{"t":"list_item","d":5,"v":"<a href=\"docs/操作系统/linux/linux基础/760bccd78d82b9e52641e9273b7baad5\" title=\"\" target=\"_blank\" rel=\"noopener noreferrer\">yum</a>"},{"t":"list_item","d":5,"v":"<a href=\"docs/工程化/打包/webpack/loader/自定义loader/9b68a2b86fd6b41392413eebbe754257\" title=\"\" target=\"_blank\" rel=\"noopener noreferrer\">基础</a>"},{"t":"list_item","d":5,"v":"<a href=\"docs/ECMASCript/b53484b1bcbe1911e09c68d510ac7d64\" title=\"\" target=\"_blank\" rel=\"noopener noreferrer\">学习资源</a>"}]},{"t":"list_item","d":4,"v":"脚本","c":[{"t":"list_item","d":5,"v":"<a href=\"docs/操作系统/linux/脚本/5d8743a01675138db72310478b6c7f30\" title=\"\" target=\"_blank\" rel=\"noopener noreferrer\">bash_shell脚本</a>"},{"t":"list_item","d":5,"v":"<a href=\"docs/操作系统/linux/脚本/c89e3ed149c086944696ba0fe3a5ffde\" title=\"\" target=\"_blank\" rel=\"noopener noreferrer\">expect脚本</a>"}]}]},{"t":"list_item","d":3,"v":"常见问题","c":[{"t":"list_item","d":4,"v":"<a href=\"docs/操作系统/常见问题/5d2f732d1880309d622ee322b766ddcb\" title=\"\" target=\"_blank\" rel=\"noopener noreferrer\">进程和线程区别todo</a>"}]}]},{"t":"list_item","d":2,"v":"网络协议","c":[{"t":"list_item","d":3,"v":"<a href=\"docs/网络协议/a7785cd0374e6044ab0a1c64fbbc81fa\" title=\"\" target=\"_blank\" rel=\"noopener noreferrer\">图解http</a>"}]},{"t":"list_item","d":2,"v":"设计模式"},{"t":"list_item","d":2,"v":"微信公众号"},{"t":"list_item","d":2,"v":"算法和数据结构"},{"t":"list_item","d":2,"v":"移动端跨平台开发"}]},(loadPlugins, items, opts) => loadPlugins(items, opts),["prism"],{"prism":true})</script>
 </body>
 </html>
